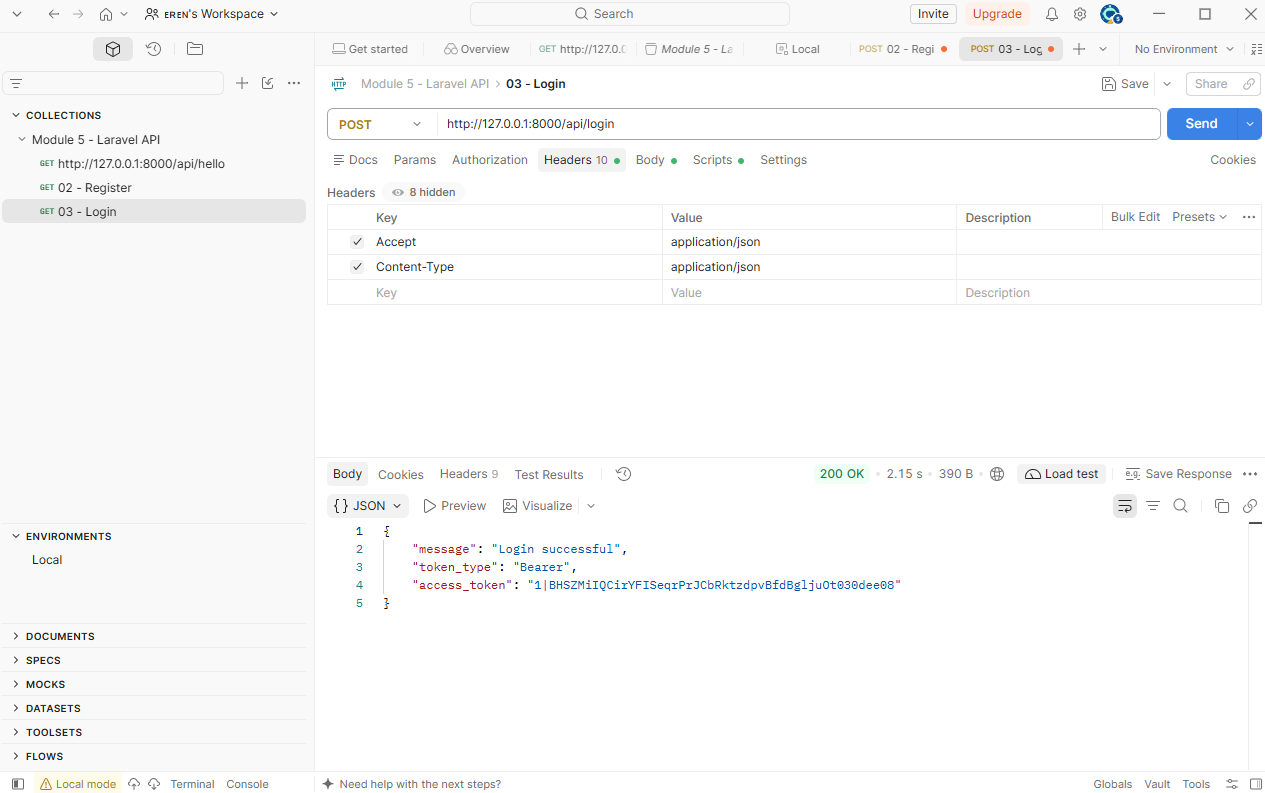
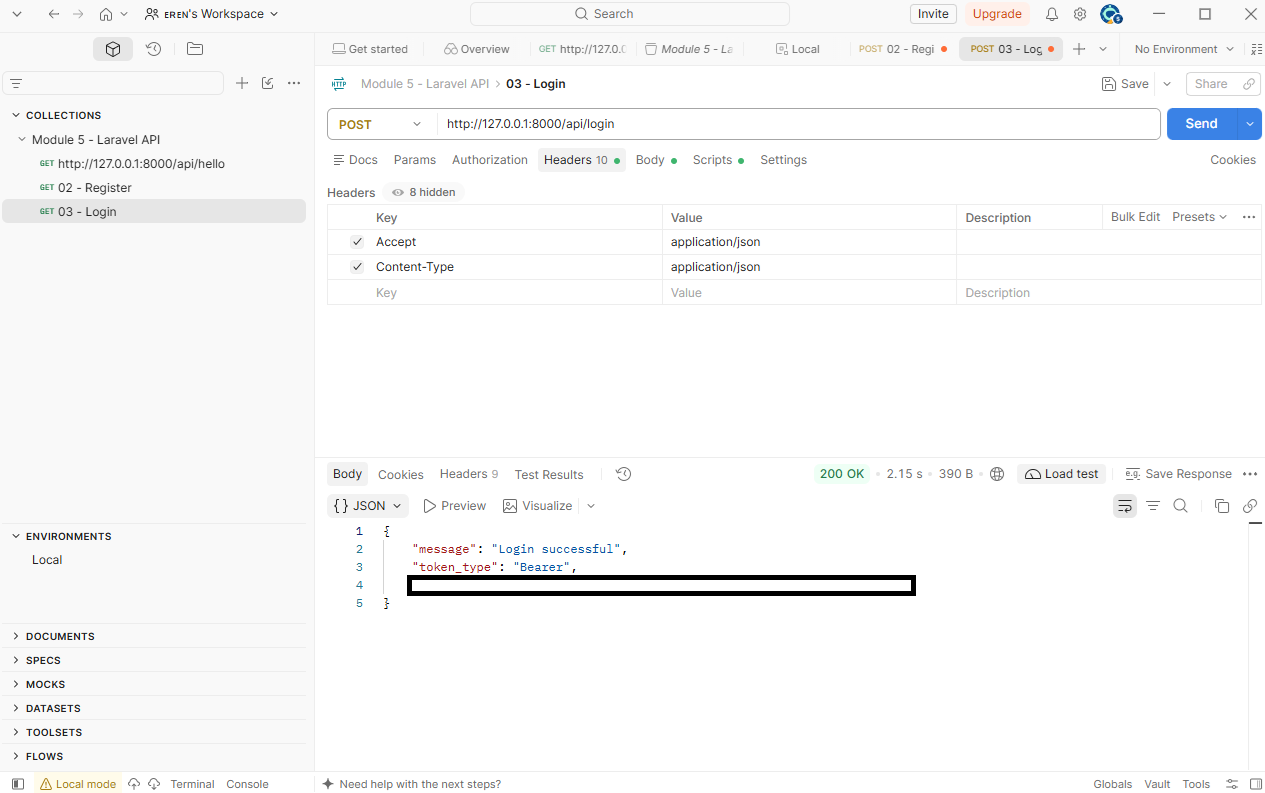
Add role-based access control (Lab 2)

Changed region(s): [[0.3083, 0.7264, 0.7399, 0.7566]]

diff --git a/routes/api.php b/routes/api.php
@@ -19,3 +19,21 @@ Route::middleware('auth:sanctum')->group(function () {
     Route::get('/profile', [AuthController::class, 'profile']);
     Route::post('/logout', [AuthController::class, 'logout']);
 });
+
+Route::middleware(['auth:sanctum', 'role:admin,student'])
+    ->get('/students', function () {
+        return response()->json([
+            ['id' => 1, 'name' => 'Ana Reyes', 'course' => 'BSIT'],
+            ['id' => 2, 'name' => 'Ben Cruz', 'course' => 'BSCS'],
+        ]);
+    });
+
+Route::middleware(['auth:sanctum', 'admin'])
+    ->get('/admin/dashboard', function () {
+        return response()->json(['message' => 'Welcome Admin!']);
+    });
+
+Route::middleware(['auth:sanctum', 'role:student'])
+    ->get('/student/dashboard', function () {
+        return response()->json(['message' => 'Welcome Student!']);
+    });

diff --git a/app/Http/Middleware/CheckRole.php b/app/Http/Middleware/CheckRole.php
@@ -1,0 +1,29 @@
+<?php
+
+namespace App\Http\Middleware;
+
+use Closure;
+use Illuminate\Http\Request;
+use Symfony\Component\HttpFoundation\Response;
+
+class CheckRole
+{
+    public function handle(Request $request, Closure $next, string ...$roles): Response
+    {
+        $user = $request->user();
+
+        if (! $user) {
+            return response()->json([
+                'message' => 'Unauthenticated.',
+            ], 401);
+        }
+
+        if (! in_array($user->role, $roles, true)) {
+            return response()->json([
+                'message' => 'Forbidden. You do not have the required role.',
+            ], 403);
+        }
+
+        return $next($request);
+    }
+}

diff --git a/app/Http/Middleware/AdminMiddleware.php b/app/Http/Middleware/AdminMiddleware.php
@@ -1,0 +1,29 @@
+<?php
+
+namespace App\Http\Middleware;
+
+use Closure;
+use Illuminate\Http\Request;
+use Symfony\Component\HttpFoundation\Response;
+
+class AdminMiddleware
+{
+    public function handle(Request $request, Closure $next): Response
+    {
+        $user = $request->user();
+
+        if (! $user) {
+            return response()->json([
+                'message' => 'Unauthenticated.',
+            ], 401);
+        }
+
+        if ($user->role !== 'admin') {
+            return response()->json([
+                'message' => 'Forbidden. Admins only.',
+            ], 403);
+        }
+
+        return $next($request);
+    }
+}

diff --git a/database/migrations/2026_11_10_065814_add_role_to_users_table.php b/database/migrations/2026_11_10_065814_add_role_to_users_table.php
@@ -1,0 +1,25 @@
+<?php
+
+use Illuminate\Database\Migrations\Migration;
+use Illuminate\Database\Schema\Blueprint;
+use Illuminate\Support\Facades\Schema;
+
+return new class extends Migration
+{
+    /**
+     * Run the migrations.
+     */
+    public function up(): void
+{
+    Schema::table('users', function (Blueprint $table) {
+        $table->string('role')->default('student');
+    });
+}
+
+public function down(): void
+{
+    Schema::table('users', function (Blueprint $table) {
+        $table->dropColumn('role');
+    });
+}
+};

diff --git a/bootstrap/app.php b/bootstrap/app.php
@@ -13,7 +13,10 @@ return Application::configure(basePath: dirname(__DIR__))
         health: '/up',
     )
     ->withMiddleware(function (Middleware $middleware): void {
-        //
+        $middleware->alias([
+            'role' => \App\Http\Middleware\CheckRole::class,
+            'admin' => \App\Http\Middleware\AdminMiddleware::class,
+        ]);
     })
     ->withExceptions(function (Exceptions $exceptions): void {
         $exceptions->shouldRenderJsonWhen(

diff --git a/README.md b/README.md
@@ -1,58 +1,51 @@
-<p align="center"><a href="https://laravel.com" target="_blank"><img src="https://raw.githubusercontent.com/laravel/art/master/logo-lockup/5%20SVG/2%20CMYK/1%20Full%20Color/laravel-logolockup-cmyk-red.svg" width="400" alt="Laravel Logo"></a></p>
+# Laravel 13 Secure API: Token Authentication and RBAC
 
-<p align="center">
-<a href="https://github.com/laravel/framework/actions"><img src="https://github.com/laravel/framework/workflows/tests/badge.svg" alt="Build Status"></a>
-<a href="https://packagist.org/packages/laravel/framework"><img src="https://img.shields.io/packagist/dt/laravel/framework" alt="Total Downloads"></a>
-<a href="https://packagist.org/packages/laravel/framework"><img src="https://img.shields.io/packagist/v/laravel/framework" alt="Latest Stable Version"></a>
-<a href="https://packagist.org/packages/laravel/framework"><img src="https://img.shields.io/packagist/l/laravel/framework" alt="License"></a>
-</p>
+Integrative Programming & Technologies II, Module 5.
 
-## About Laravel
+- **Lesson 1:** Sanctum token authentication. Evidence is in `evidence/`.
+- **Lesson 2:** Role-based access control with two custom middleware. Evidence is in `screenshots/`.
 
-Laravel is a web application framework with expressive, elegant syntax. We believe development must be an enjoyable and creative experience to be truly fulfilling. Laravel takes the pain out of development by easing common tasks used in many web projects, such as:
+## RBAC routes
 
-- [Simple, fast routing engine](https://laravel.com/docs/routing).
-- [Powerful dependency injection container](https://laravel.com/docs/container).
-- Multiple back-ends for [session](https://laravel.com/docs/session) and [cache](https://laravel.com/docs/cache) storage.
-- Expressive, intuitive [database ORM](https://laravel.com/docs/eloquent).
-- Database agnostic [schema migrations](https://laravel.com/docs/migrations).
-- [Robust background job processing](https://laravel.com/docs/queues).
-- [Real-time event broadcasting](https://laravel.com/docs/broadcasting).
+| Endpoint | Method | Middleware | Admin | Student | No token |
+|---|---|---|---|---|---|
+| `/api/profile` | GET | `auth:sanctum` | 200 | 200 | 401 |
+| `/api/students` | GET | `auth:sanctum`, `role:admin,student` | 200 | 200 | 401 |
+| `/api/admin/dashboard` | GET | `auth:sanctum`, `admin` | 200 | 403 | 401 |
+| `/api/student/dashboard` | GET | `auth:sanctum`, `role:student` | 403 | 200 | 401 |
 
-Laravel is accessible, powerful, and provides tools required for large, robust applications.
+## How it works
 
-## Learning Laravel
+- The `users` table has a `role` column that defaults to `student`.
+- Public registration never accepts a `role`. The admin role is assigned only through trusted server-side code (tinker).
+- `CheckRole` accepts one or more roles. It returns 401 if there is no user and 403 if the role is not allowed.
+- `AdminMiddleware` allows only `role === 'admin'`, with the same 401 and 403 behavior.
+- The `role` and `admin` aliases are registered in `bootstrap/app.php`.
+- `auth:sanctum` runs first, so the token is checked before the role.
 
-Laravel has the most extensive and thorough [documentation](https://laravel.com/docs) and video tutorial library of all modern web application frameworks, making it a breeze to get started with the framework.
+## Local testing steps
 
-In addition, [Laracasts](https://laracasts.com) contains thousands of video tutorials on a range of topics including Laravel, modern PHP, unit testing, and JavaScript. Boost your skills by digging into our comprehensive video library.
+1. Start MySQL in XAMPP and create the database `demo_app_integ2`.
+2. Run `composer install`, copy `.env.example` to `.env`, set the `DB_*` values, and run `php artisan key:generate`.
+3. Run `php artisan migrate`.
+4. Create one admin and one student in `php artisan tinker`. Set `role` directly, and choose your own passwords:
 
-You can also watch bite-sized lessons with real-world projects on [Laravel Learn](https://laravel.com/learn), where you will be guided through building a Laravel application from scratch while learning PHP fundamentals.
-
-## Agentic Development
-
-Laravel's predictable structure and conventions make it ideal for AI coding agents like Claude Code, Cursor, and GitHub Copilot. Install [Laravel Boost](https://laravel.com/docs/ai) to supercharge your AI workflow:
-
-```bash
-composer require laravel/boost --dev
-
-php artisan boost:install
+```php
+$u = User::firstOrNew(['email' => 'admin@example.com']);
+$u->name = 'Admin User'; $u->password = Hash::make('CHOOSE_A_PASSWORD'); $u->role = 'admin'; $u->save();
 ```
 
-Boost provides your agent 15+ tools and skills that help agents build Laravel applications while following best practices.
+5. Run `php artisan serve`.
+6. In Postman, send `Accept: application/json`, log in with `POST /api/login`, then use the returned token as a Bearer token.
 
-## Contributing
+## Screenshots
 
-Thank you for considering contributing to the Laravel framework! The contribution guide can be found in the [Laravel documentation](https://laravel.com/docs/contributions).
+`screenshots/` holds the eight Postman tests: admin login, admin allowed, admin denied, student login, student allowed, student denied, shared route, and no token. Tokens are hidden.
 
-## Code of Conduct
+## Reflection
 
-In order to ensure that the Laravel community is welcoming to all, please review and abide by the [Code of Conduct](https://laravel.com/docs/contributions#code-of-conduct).
+**What is the difference between authentication and authorization?**
+Authentication checks who you are. In this project Sanctum does it by validating the Bearer token. Authorization checks what you are allowed to do. In this project the role middleware does it by comparing the user's role with the roles the route allows.
 
-## Security Vulnerabilities
-
-If you discover a security vulnerability within Laravel, please send an e-mail to Taylor Otwell via [taylor@laravel.com](mailto:taylor@laravel.com). All security vulnerabilities will be promptly addressed.
-
-## License
-
-The Laravel framework is open-sourced software licensed under the [MIT license](https://opensource.org/licenses/MIT).
+**Why does a student get 403 on the admin dashboard, but a request without a token gets 401?**
+With no token, Sanctum cannot identify the user, so the request is stopped with 401. A student's token is valid, so the user is identified, but `AdminMiddleware` sees the role is not `admin` and refuses with 403. A 401 means I don't know who you are. A 403 means I know who you are, but you are not allowed here.
